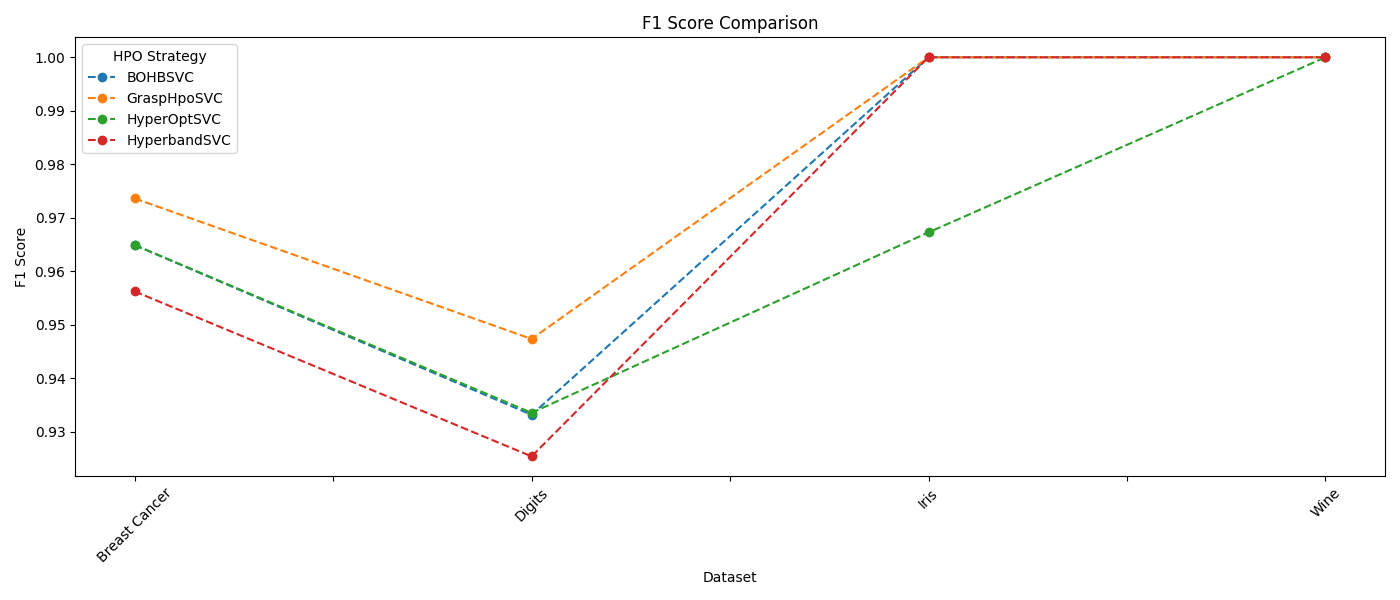
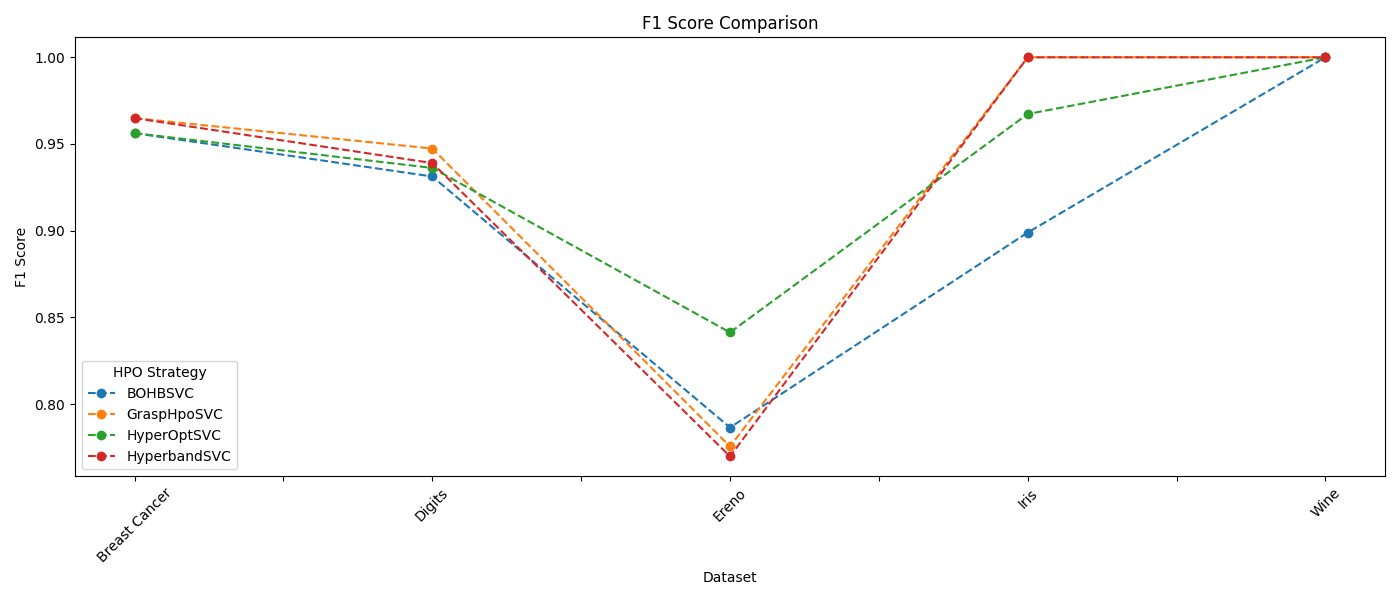
mlconfig added, testing needed

diff --git a/mlhpocfg/ml/XGBoost.py b/mlhpocfg/ml/XGBoost.py
@@ -1,0 +1,114 @@
+from sklearn.metrics import f1_score
+import xgboost as xgb
+
+import xgboost as xgb
+
+class XGBoost():
+    def __init__(self):
+        self.name = 'XGBoost'
+        self.hp = {
+            "max_depth": {
+                "type": "int",
+                "range": [0, None]
+            },
+            "max_leaves": {
+                "type": "int",
+                "range": [0, None]
+            },
+            "max_bin": {
+                "type": "int",
+                "range": [0, None]
+            },
+            "grow_policy": {
+                "type": "categorical",
+                "range": [0, 1]
+            },
+            "learning_rate": {
+                "type": "float",
+                "range": [0.0, None]
+            },
+            "verbosity": {
+                "type": "int",
+                "range": [0, 3]
+            },
+            "objective": {
+                "type": "categorical",
+                "range": ["reg:squarederror", "reg:squaredlogerror", "reg:logistic"]
+            },
+            "booster": {
+                "type": "categorical",
+                "range": ["gbtree", "gblinear", "dart"]
+            },
+            "tree_method": {
+                "type": "categorical",
+                "range": ["auto", "exact", "approx", "hist", "gpu_hist"]
+            },
+            "n_jobs": {
+                "type": "int",
+                "range": [0, None]
+            },
+            "gamma": {
+                "type": "float",
+                "range": [0.0, None]
+            },
+            "min_child_weight": {
+                "type": "float",
+                "range": [0.0, None]
+            },
+            "max_delta_step": {
+                "type": "float",
+                "range": [0.0, None]
+            },
+            "subsample": {
+                "type": "float",
+                "range": [0.0, 1.0]
+            },
+            "sampling_method": {
+                "type": "categorical",
+                "range": ["uniform", "gradient_based"]
+            },
+            "colsample_bytree": {
+                "type": "float",
+                "range": [0.0, 1.0]
+            },
+            "colsample_bylevel": {
+                "type": "float",
+                "range": [0.0, 1.0]
+            },
+            "colsample_bynode": {
+                "type": "float",
+                "range": [0.0, 1.0]
+            },
+            "reg_alpha": {
+                "type": "float",
+                "range": [0.0, None]
+            },
+            "reg_lambda": {
+                "type": "float",
+                "range": [0.0, None]
+            },
+            "base_score": {
+                "type": "float",
+                "range": [0.0, None]
+            },
+            "random_state": {
+                "type": "int",
+                "range": [0, None]
+            },
+            
+        }
+        self.model = None
+
+    def get_hps(self):
+        return self.hp
+    
+    def train(self, X, y, hps):
+        self.model = xgb.XGBClassifier(**hps)
+        self.model.fit(X, y)
+        return self.model
+    
+    def predict(self, X):
+        return self.model.predict(X)
+    
+    def f1_score(self, y_true, y_pred):
+        return f1_score(y_true, y_pred)

diff --git a/mlhpocfg/cfg.py b/mlhpocfg/cfg.py
@@ -1,0 +1,97 @@
+import ml
+import json
+import os
+import sys
+import importlib
+from pkgutil import iter_modules
+
+class MLConfig():
+    def __init__(self):
+        self.ml = None
+        self.hps = {}
+    
+    def set_ml(self, ml):
+        self.ml = ml
+
+    def set_hps(self, hps):
+        self.hps = hps
+
+    def get_ml(self):
+        return self.ml
+    
+    def get_hps(self):
+        return self.hps
+    
+    def export_config(self):
+        return json.dumps({'ml': self.ml.name, 'hps': self.hps}, indent=4)
+    
+    def export_file(self, output_dir):
+        #set filename
+        filename = self.ml.name + '_cfg.json'
+        #check if filename already exists
+        if os.path.exists(output_dir + filename):
+            print('File already exists')
+            raise Exception('File already exists')
+        else:
+            with open(output_dir + filename, 'w+') as f:
+                f.write(self.export_config())
+
+    def import_file(self, filename):
+        with open(filename, 'r') as f:
+            data = json.load(f)
+            self.ml_import(data['ml'])
+            self.hps = data['hps']
+
+    def ml_search(self, search_name):
+        for importer, modname, ispkg in iter_modules(ml.__path__):
+            if modname == search_name:
+                return True
+        return False
+    
+    def ml_import(self, ml_name):
+        if self.ml_search(ml_name):
+            module = importlib.import_module('ml.' + ml_name)
+            obj_class = getattr(module, ml_name)
+            obj = obj_class()
+            self.set_ml(obj)
+            self.set_hps(obj.get_hps())
+            return True
+        else:
+            raise Exception('ML not found')
+        
+    def read_input_config(self, filename):
+        '''
+        Opens a json file with the following structure:
+        {
+            "ml": "ml_name",
+            "whitelist": ["hp1", "hp2", "hp3"]
+            "blacklist": ["hp4", "hp5", "hp6"]
+        }
+        '''
+        #open json file
+        with open(filename, 'r') as f:
+            data = json.load(f)
+            whitelist = data['whitelist']
+            blacklist = data['blacklist']
+            #import ml
+            self.ml_import(data['ml'])
+            #if whitelist is empty, keep all hps
+            if not whitelist:
+                whitelist = self.hps.keys()
+            #if blacklist is empty, keep all hps
+            if not blacklist:
+                blacklist = []
+            #filter hps
+            self.hps = {k: v for k, v in self.hps.items() if k in whitelist}
+            self.hps = {k: v for k, v in self.hps.items() if k not in blacklist}
+            #find directory of this file
+            directory = os.path.dirname(os.path.realpath(__file__))
+            #export config
+            self.export_file(directory + '/outputs/')
+
+
+if __name__ == '__main__':
+    #load config from arguments
+    config = MLConfig()
+    config.read_input_config(sys.argv[1])
+    print(config.get_ml())

diff --git a/mlhpocfg/ml/SVM.py b/mlhpocfg/ml/SVM.py
@@ -1,0 +1,46 @@
+from sklearn.svm import LinearSVC
+from sklearn.metrics import f1_score
+
+class SVM():
+    def __init__(self):
+        self.name = 'SVM'
+        self.hp = {
+            "penalty": {
+                "type": "categorical",
+                "range": ["l1", "l2"]
+            },
+            "loss": {
+                "type": "categorical",
+                "range": ["hinge", "squared_hinge"]
+            },
+            "dual": {
+                "type": "categorical",
+                "range": ["auto", True, False]
+            },
+            "tol": {
+                "type": "float",
+                "range": [0.0, None]
+            },
+            "C": {
+                "type": "float",
+                "range": [0.0, None]
+            },
+            "multi_class": {
+                "type": "categorical",
+                "range": ["ovr", "crammer_singer"]
+            },
+        }
+        self.model = None
+    
+    def get_hps(self):
+        return self.hp
+
+    def train(self, X, y, hps):
+        self.model = LinearSVC(**hps)
+        self.model.fit(X, y)
+
+    def predict(self, X):
+        return self.model.predict(X)
+    
+    def f1_score(self, y_true, y_pred):
+        return f1_score(y_true, y_pred)

diff --git a/src/ml_mod/phase2grasp_svm.py b/src/ml_mod/phase2grasp_svm.py
@@ -83,7 +83,10 @@ class LocalSearch:
 
         neighbor = cur_solution.copy()
         for hp in neighbor.keys():
-            if hp in ['penalty', 'loss', 'dual', 'multi_class', 'fit_intercept', 'class_weight', 'verbose', 'random_state']:
+            # if hp in ['penalty', 'loss', 'dual', 'multi_class', 'fit_intercept', 'class_weight', 'verbose', 'random_state']:
+            #     continue
+
+            if hp in not_accepted:
                 continue
 
             plus_minus = (self.hp_ranges[hp][1] - self.hp_ranges[hp][0]) * (self.margin / 2.0)

diff --git a/src/main.py b/src/main.py
@@ -62,7 +62,7 @@ class Main:
 
     @staticmethod
     def main():
-        dataset_names = ['Canids']
+        dataset_names = ['Ereno', 'Breast Cancer', 'Iris', 'Wine', 'Digits']
         # dataset_names = ['Breast Cancer']
         strategies = ['HyperOptSVC', 'BOHBSVC', 'HyperbandSVC', 'GraspHpoSVC']
         # strategies = ['Hyperband']
